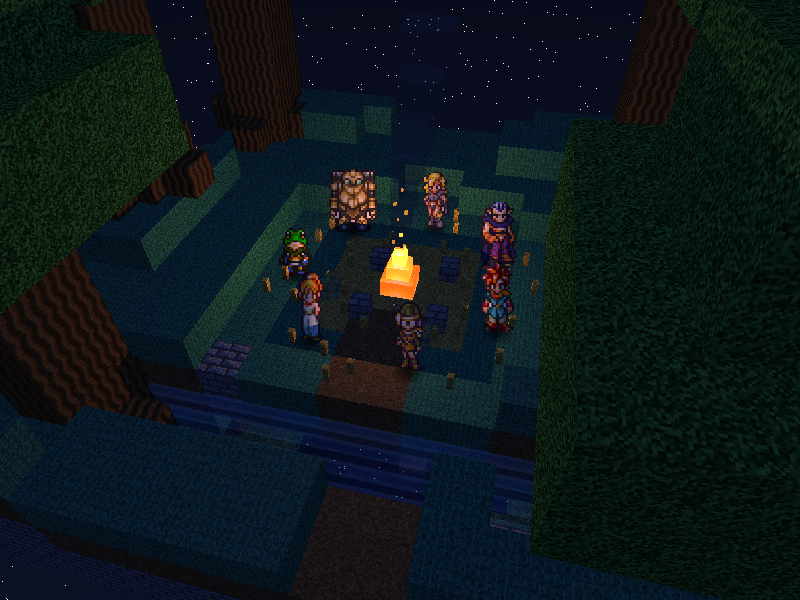
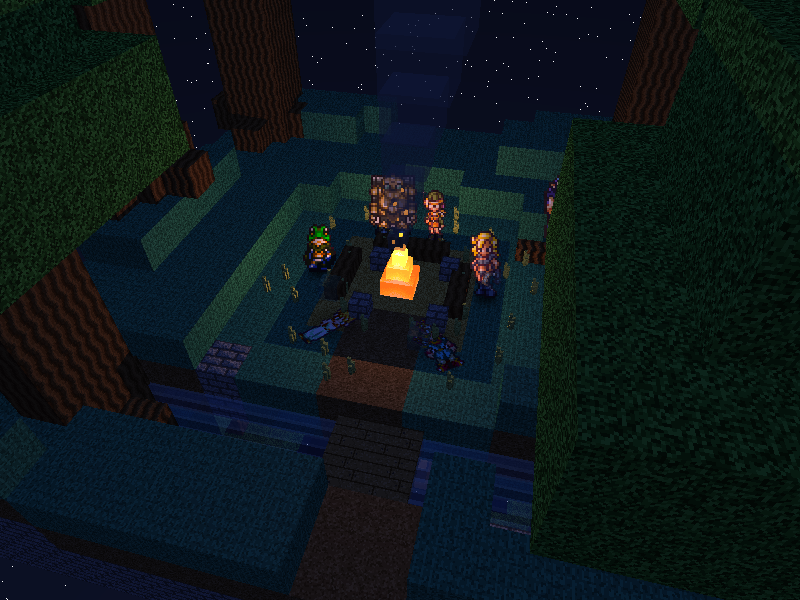
feat(scene): Se posiciona la party como en la referencia con sprites acostados, troncos y puente.

diff --git a/src/scene.rs b/src/scene.rs
@@ -9,6 +9,7 @@ use crate::procedural;
 pub struct Scene {
     pub cubes: Vec<Cube>,
     pub billboards: Vec<Billboard>,
+    pub ground_sprites: Vec<crate::billboard::GroundSprite>,
     pub lights: Vec<Light>,
     pub skybox: Skybox,
     pub textures: crate::texture::TextureManager,
@@ -126,15 +127,15 @@ impl Scene {
             ).without_shadow().with_tile_uv(false));
         }
 
-        // --- Humo: 7 cubos grises translúcidos (transparency ~0.75, IOR 1.0) subiendo hasta ~6 bloques ---
+        // --- Humo: 7 cubos grises translúcidos subiendo hasta ~6 bloques, creciendo progresivamente ---
         let smoke_steps = [
-            (-0.04, ground_y + 1.45, 0.02, 0.35),
-            (0.06, ground_y + 2.10, 0.07, 0.45),
-            (0.14, ground_y + 2.80, 0.14, 0.55),
-            (0.25, ground_y + 3.55, 0.22, 0.65),
-            (0.38, ground_y + 4.35, 0.32, 0.75),
-            (0.52, ground_y + 5.18, 0.44, 0.85),
-            (0.68, ground_y + 6.05, 0.58, 0.95),
+            (-0.04, ground_y + 1.45, 0.02, 0.45),
+            (0.06, ground_y + 2.15, 0.07, 0.60),
+            (0.14, ground_y + 2.90, 0.14, 0.78),
+            (0.25, ground_y + 3.75, 0.22, 0.98),
+            (0.38, ground_y + 4.65, 0.32, 1.18),
+            (0.52, ground_y + 5.60, 0.44, 1.38),
+            (0.68, ground_y + 6.60, 0.58, 1.58),
         ];
         for &(sx, sy, sz, ss) in &smoke_steps {
             cubes.push(Cube::new_box(
@@ -144,7 +145,7 @@ impl Scene {
             ).without_shadow().with_tile_uv(false));
         }
 
-        // --- Pasto amarillo: ~36 mechones dispersos en círculo de paja y borde de clarería ---
+        // --- Pasto verde-amarillo: mechones en grupos de 3 hojas finas (~0.08) ---
         let tuft_coords = [
             (-1.4, 0.6), (-0.8, -1.5), (1.5, -0.9), (0.7, 1.6),
             (-1.8, -1.1), (1.9, 0.8), (-0.5, 1.8), (1.6, -1.6),
@@ -158,12 +159,53 @@ impl Scene {
         ];
         for &(tx, tz) in &tuft_coords {
             let ty = terrain_height_at(&cubes, tx, tz);
-            cubes.push(Cube::new_box(
-                Vector3::new(tx - 0.075, ty, tz - 0.075),
-                Vector3::new(0.15, 0.40, 0.15),
-                mats.tuft,
-            ).without_shadow().with_tile_uv(false));
+            let blade_offsets = [
+                (-0.04, -0.03, 0.46),
+                (0.04, -0.02, 0.35),
+                (0.00, 0.04, 0.27),
+            ];
+            for &(bx, bz, bh) in &blade_offsets {
+                cubes.push(Cube::new_box(
+                    Vector3::new(tx + bx - 0.04, ty, tz + bz - 0.04),
+                    Vector3::new(0.08, bh, 0.08),
+                    mats.tuft,
+                ).without_shadow().with_tile_uv(false));
+            }
         }
+
+        // --- Troncos horizontales para sentarse (~2x0.5x0.5 con textura bark y mapa normal) ---
+        // Log 1: Detrás de la fogata frente a Robo y Lucca
+        cubes.push(Cube::new_box(
+            Vector3::new(-1.10, ground_y, -1.75),
+            Vector3::new(2.20, 0.45, 0.50),
+            mats.bark,
+        ));
+        // Log 2: Costado izquierdo junto a Frog
+        cubes.push(Cube::new_box(
+            Vector3::new(-1.85, ground_y, -0.90),
+            Vector3::new(0.50, 0.45, 1.80),
+            mats.bark,
+        ));
+        // Log 3: Costado derecho junto a Ayla
+        cubes.push(Cube::new_box(
+            Vector3::new(1.35, ground_y, -0.90),
+            Vector3::new(0.50, 0.45, 1.80),
+            mats.bark,
+        ));
+        // Log 4: Junto al árbol de Magus
+        cubes.push(Cube::new_box(
+            Vector3::new(3.00, ground_y, -2.40),
+            Vector3::new(1.80, 0.45, 0.50),
+            mats.bark,
+        ));
+
+        // --- Puente de tablones donde el camino cruza el arroyo (elevado ~0.08, agua visible a ambos lados) ---
+        let bridge_y = terrain_height_at(&cubes, 0.5, 4.0);
+        cubes.push(Cube::new_box(
+            Vector3::new(-0.50, bridge_y + 0.08, 4.0),
+            Vector3::new(2.00, 0.22, 2.00),
+            mats.planks,
+        ));
 
         // --- Cristales/gemas tirados cerca de la fogata (refracción + reflexión) ---
         for &(x, z) in &[(-2.0, 0.5), (2.2, -0.8), (0.7, 1.7)] {
@@ -176,41 +218,69 @@ impl Scene {
             Light::sky_fill(Vector3::new(0.0, 15.0, 0.0)),
         ];
 
-        // --- Personajes (7 miembros de Chrono Trigger en círculo alrededor de la fogata) ---
-        let party_defs: [(&str, f32); 7] = [
-            ("assets/party/Lucca.png", 0.90),
-            ("assets/party/Chrono.png", 1.00),
-            ("assets/party/Magus.png", 1.05),
-            ("assets/party/Ayla.png", 1.00),
-            ("assets/party/Robo.png", 1.10),
-            ("assets/party/Frog.png", 0.75),
-            ("assets/party/Marle.png", 0.95),
+        // --- Personajes de pie (Billboards: Robo, Lucca, Frog, Ayla, Magus) ---
+        let base_height = 1.8f32;
+        let mut billboards = Vec::new();
+
+        let standing_party = [
+            ("assets/party/Robo.png", -0.75, -2.20, 1.10),
+            ("assets/party/Lucca.png", 0.55, -2.20, 0.90),
+            ("assets/party/Frog.png", -2.40, -0.10, 0.75),
+            ("assets/party/Ayla.png", 2.35, -0.10, 1.00),
+            ("assets/party/Magus.png", 4.20, -1.60, 1.05),
         ];
 
-        let base_height = 1.8f32;
-        let radius = 3.0f32;
-        let base_angle = 17.1f32.to_radians();
-        let angle_step = std::f32::consts::TAU / 7.0;
-
-        let mut billboards = Vec::new();
-        for (i, &(tex, mult)) in party_defs.iter().enumerate() {
-            let angle = base_angle + (i as f32) * angle_step;
-            let x = radius * angle.sin();
-            let z = radius * angle.cos();
+        for &(tex, x, z, mult) in &standing_party {
             let y = terrain_height_at(&cubes, x, z);
-
             let height = base_height * mult;
             let aspect = get_png_aspect_ratio(tex);
             let width = height * aspect;
-
             billboards.push(Billboard::new(Vector3::new(x, y, z), width, height, tex));
         }
+
+        // --- Personajes acostados al frente (GroundSprite: Marle y Chrono) ---
+        let mut ground_sprites = Vec::new();
+
+        // Chrono: al frente a la derecha, acostado con la cabeza hacia el fuego
+        let chrono_tex = "assets/party/Chrono.png";
+        let chrono_h = base_height * 1.00;
+        let chrono_w = chrono_h * get_png_aspect_ratio(chrono_tex);
+        let chrono_x = 1.35f32;
+        let chrono_z = 1.85f32;
+        let chrono_y = terrain_height_at(&cubes, chrono_x, chrono_z) + 0.03;
+        let to_fire_chrono = Vector3::new(-chrono_x, 0.0, -chrono_z).normalized();
+        let angle_chrono = to_fire_chrono.x.atan2(to_fire_chrono.z);
+        ground_sprites.push(crate::billboard::GroundSprite::new(
+            Vector3::new(chrono_x, chrono_y, chrono_z),
+            chrono_w,
+            chrono_h,
+            angle_chrono,
+            chrono_tex,
+        ));
+
+        // Marle: al frente a la izquierda, acostada con la cabeza hacia el fuego
+        let marle_tex = "assets/party/Marle.png";
+        let marle_h = base_height * 0.95;
+        let marle_w = marle_h * get_png_aspect_ratio(marle_tex);
+        let marle_x = -1.35f32;
+        let marle_z = 1.85f32;
+        let marle_y = terrain_height_at(&cubes, marle_x, marle_z) + 0.03;
+        let to_fire_marle = Vector3::new(-marle_x, 0.0, -marle_z).normalized();
+        let angle_marle = to_fire_marle.x.atan2(to_fire_marle.z);
+        ground_sprites.push(crate::billboard::GroundSprite::new(
+            Vector3::new(marle_x, marle_y, marle_z),
+            marle_w,
+            marle_h,
+            angle_marle,
+            marle_tex,
+        ));
 
         let grid = crate::grid::VoxelGrid::build(&cubes);
 
         Scene {
             cubes,
             billboards,
+            ground_sprites,
             lights,
             skybox: Skybox::night(),
             textures: crate::texture::TextureManager::new(),
@@ -237,6 +307,7 @@ impl Scene {
             "assets/water.png",
             "assets/straw.png",
             "assets/tuft.png",
+            "assets/planks.png",
             "assets/party/Chrono.png",
             "assets/party/Marle.png",
             "assets/party/Lucca.png",

diff --git a/src/main.rs b/src/main.rs
@@ -53,13 +53,22 @@ fn main() {
     let headless = args.iter().any(|a| a == "--screenshot");
     let rotated = args.iter().any(|a| a == "--rotated");
     let elevated = args.iter().any(|a| a == "--elevated");
+    let closeup = args.iter().any(|a| a == "--closeup");
     let moving_mode = args.iter().any(|a| a == "--moving");
 
     // 2. Crear la escena y cargar texturas en CPU
     let mut scene = Scene::campfire_diorama();
     scene.load_textures(&mut rl, &thread);
 
-    let mut camera = if elevated {
+    let mut camera = if closeup {
+        // Primer plano de Marle acostada con cámara rotada ~90 grados
+        let ground_y = scene::terrain_height_at(&scene.cubes, -1.35, 1.85);
+        Camera::new(
+            Vector3::new(-4.2, ground_y + 2.4, 1.85),
+            Vector3::new(-1.35, ground_y + 0.1, 1.85),
+            Vector3::new(0.0, 1.0, 0.0),
+        )
+    } else if elevated {
         Camera::new(
             Vector3::new(2.5, 12.5, 10.5),
             Vector3::new(0.0, 2.5, 0.0),
@@ -189,7 +198,9 @@ fn main() {
                         img.draw_pixel(x, y, framebuffer[(y * WIDTH + x) as usize]);
                     }
                 }
-                let out_file = if elevated {
+                let out_file = if closeup {
+                    "screenshot_closeup.png"
+                } else if elevated {
                     "screenshot_elevated.png"
                 } else if rotated {
                     "screenshot_rotated.png"
